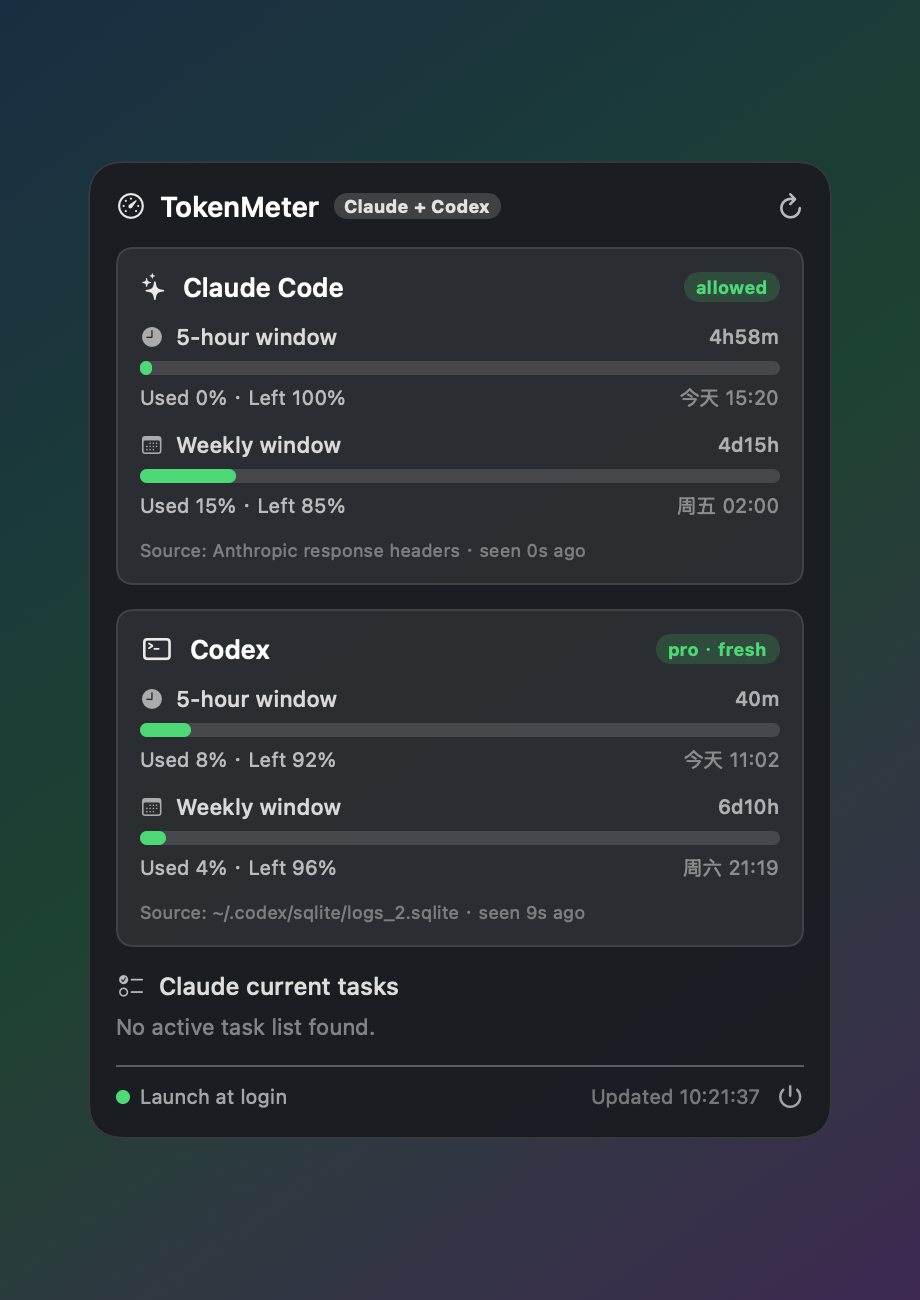
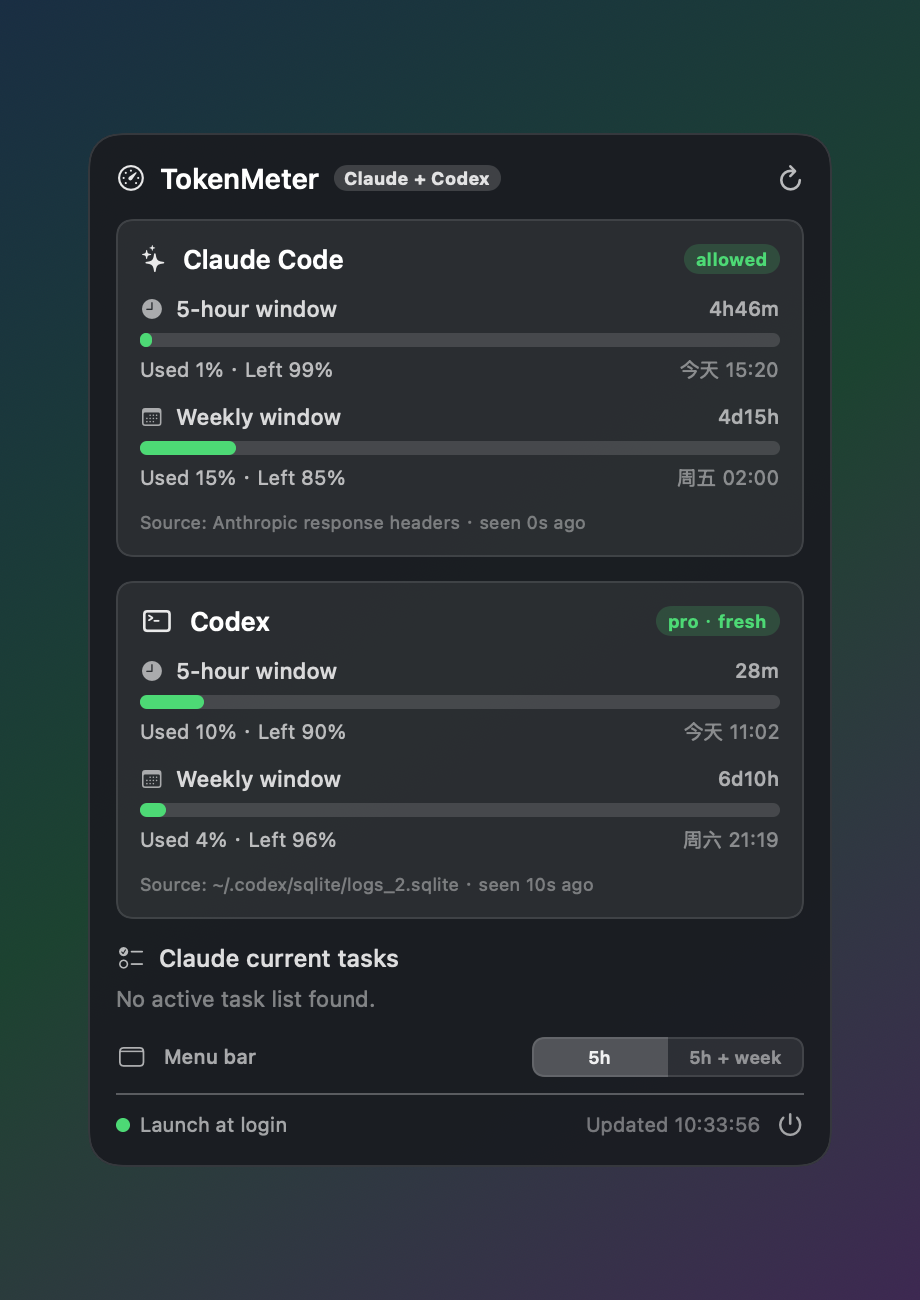
Add configurable menu bar quota display

Changed region(s): [[0.0913, 0.4615, 0.913, 0.9231], [0.0913, 0.0923, 0.913, 0.4308]]

diff --git a/main.swift b/main.swift
@@ -92,8 +92,37 @@ struct ProviderUsage: Identifiable {
         windows.first(where: { $0.id == "5h" })?.used ?? worstUsed
     }
 
+    var primaryLeft: Double? {
+        primaryUsed.map { max(0, 1 - $0) }
+    }
+
     var hasUsableData: Bool {
         windows.contains { $0.used != nil || $0.reset != nil }
+    }
+}
+
+enum MenuBarDisplayMode: String, CaseIterable, Identifiable {
+    case fiveHour
+    case fiveHourAndWeekly
+
+    static let defaultsKey = "menuBarDisplayMode"
+
+    var id: String { rawValue }
+
+    var label: String {
+        switch self {
+        case .fiveHour: return "5h"
+        case .fiveHourAndWeekly: return "5h + week"
+        }
+    }
+
+    static func load() -> MenuBarDisplayMode {
+        let raw = UserDefaults.standard.string(forKey: defaultsKey) ?? ""
+        return MenuBarDisplayMode(rawValue: raw) ?? .fiveHour
+    }
+
+    func save() {
+        UserDefaults.standard.set(rawValue, forKey: Self.defaultsKey)
     }
 }
 
@@ -111,6 +140,9 @@ final class UsageState: ObservableObject {
     @Published var loading = false
     @Published var tick = 0
     @Published var codexActionMessage: String?
+    @Published var menuBarMode: MenuBarDisplayMode = MenuBarDisplayMode.load() {
+        didSet { menuBarMode.save() }
+    }
 }
 
 struct FetchResult {
@@ -732,11 +764,38 @@ struct ProviderCard: View {
     }
 }
 
+struct MenuBarModeControl: View {
+    @Binding var selection: MenuBarDisplayMode
+    var onChange: () -> Void
+
+    var body: some View {
+        HStack(spacing: 0) {
+            ForEach(MenuBarDisplayMode.allCases) { mode in
+                Button {
+                    selection = mode
+                    onChange()
+                } label: {
+                    Text(mode.label)
+                        .font(.system(size: 9, weight: .semibold))
+                        .frame(width: 68, height: 20)
+                        .foregroundColor(selection == mode ? .white.opacity(0.92) : .white.opacity(0.48))
+                        .background(selection == mode ? Color.white.opacity(0.18) : Color.clear)
+                }
+                .buttonStyle(.plain)
+            }
+        }
+        .background(Color.white.opacity(0.08))
+        .clipShape(RoundedRectangle(cornerRadius: 6))
+        .overlay(RoundedRectangle(cornerRadius: 6).strokeBorder(Color.white.opacity(0.10)))
+    }
+}
+
 struct PanelView: View {
     @ObservedObject var state: UsageState
     var onRefresh: () -> Void
     var onQuit: () -> Void
     var onOpenCodex: () -> Void
+    var onMenuBarModeChange: () -> Void
     var preview: Bool = false
 
     @State private var launchAtLogin = (SMAppService.mainApp.status == .enabled)
@@ -841,6 +900,18 @@ struct PanelView: View {
 
     private var footer: some View {
         VStack(spacing: 8) {
+            HStack(spacing: 8) {
+                Image(systemName: "menubar.rectangle")
+                    .font(.system(size: 11))
+                    .foregroundColor(.white.opacity(0.65))
+                Text("Menu bar")
+                    .font(.system(size: 10, weight: .medium))
+                    .foregroundColor(.white.opacity(0.62))
+                Spacer()
+                MenuBarModeControl(selection: $state.menuBarMode) {
+                    onMenuBarModeChange()
+                }
+            }
             Divider().overlay(Color.white.opacity(0.12))
             HStack {
                 Button {
@@ -934,7 +1005,11 @@ final class AppDelegate: NSObject, NSApplicationDelegate {
             state: state,
             onRefresh: { [weak self] in self?.refresh() },
             onQuit: { NSApp.terminate(nil) },
-            onOpenCodex: { [weak self] in self?.openCodex() }
+            onOpenCodex: { [weak self] in self?.openCodex() },
+            onMenuBarModeChange: { [weak self] in
+                self?.updateStatusTitle()
+                if self?.panel.isVisible == true { self?.refitPanel() }
+            }
         )
         let hosting = NSHostingView(rootView: root)
         hosting.autoresizingMask = [.width, .height]
@@ -1023,38 +1098,115 @@ final class AppDelegate: NSObject, NSApplicationDelegate {
     }
 
     private func updateStatusTitle() {
-        guard let button = statusItem.button else { return }
+        guard statusItem.button != nil else { return }
         if state.providers.isEmpty {
-            button.title = "⏳ TokenMeter"
+            setStatusTitle("TokenMeter", color: .secondaryLabelColor, tooltip: nil)
             return
         }
-        let dot = statusDot()
         let parts = state.providers.map { provider in
-            let marker: String
-            let value: Double?
-            switch provider.freshness {
-            case .live:
-                marker = ""
-                value = provider.primaryUsed
-            case .stale:
-                marker = "~"
-                value = provider.primaryUsed
-            case .missingToken, .unavailable, .error:
-                marker = "!"
-                value = nil
-            }
-            return "\(marker)\(provider.shortName) \(fmtPct(value))"
+            menuBarProviderText(provider)
         }
-        button.title = "\(dot) " + parts.joined(separator: " · ")
+        let severity = menuBarSeverity()
+        let title = "\(severity.symbol) " + parts.joined(separator: " · ")
+        setStatusTitle(title, color: severity.color, tooltip: menuBarTooltip())
     }
 
-    private func statusDot() -> String {
-        if state.providers.contains(where: { $0.limitReached == true || $0.freshness == .error }) { return "🔴" }
-        if state.providers.contains(where: { [.stale, .missingToken, .unavailable].contains($0.freshness) }) { return "🟡" }
-        let worst = state.providers.compactMap(\.worstUsed).max() ?? 0
-        if worst >= 0.8 { return "🟡" }
-        if state.providers.contains(where: { $0.hasUsableData }) { return "🟢" }
-        return "⚙︎"
+    private func setStatusTitle(_ title: String, color: NSColor, tooltip: String?) {
+        guard let button = statusItem.button else { return }
+        let font = NSFont.monospacedDigitSystemFont(ofSize: NSFont.systemFontSize, weight: .semibold)
+        button.attributedTitle = NSAttributedString(
+            string: title,
+            attributes: [.foregroundColor: color, .font: font]
+        )
+        button.toolTip = tooltip
+    }
+
+    private func menuBarProviderText(_ provider: ProviderUsage) -> String {
+        let prefix: String
+        switch provider.freshness {
+        case .live:
+            prefix = ""
+        case .stale:
+            prefix = "~"
+        case .missingToken, .unavailable, .error:
+            prefix = "!"
+        }
+
+        switch state.menuBarMode {
+        case .fiveHour:
+            return "\(prefix)\(provider.shortName) \(fmtPct(left(for: provider, windowID: "5h")))"
+        case .fiveHourAndWeekly:
+            let fiveHour = fmtPct(left(for: provider, windowID: "5h"))
+            let weekly = fmtPct(left(for: provider, windowID: "weekly"))
+            return "\(prefix)\(provider.shortName) \(fiveHour)/\(weekly)"
+        }
+    }
+
+    private func left(for provider: ProviderUsage, windowID: String) -> Double? {
+        guard let used = provider.windows.first(where: { $0.id == windowID })?.used else { return nil }
+        return max(0, 1 - used)
+    }
+
+    private func displayedRemainingValues() -> [Double] {
+        state.providers.flatMap { provider -> [Double] in
+            switch state.menuBarMode {
+            case .fiveHour:
+                return [left(for: provider, windowID: "5h")].compactMap { $0 }
+            case .fiveHourAndWeekly:
+                return [
+                    left(for: provider, windowID: "5h"),
+                    left(for: provider, windowID: "weekly")
+                ].compactMap { $0 }
+            }
+        }
+    }
+
+    private enum MenuBarSeverity {
+        case healthy
+        case warning
+        case critical
+        case unknown
+
+        var symbol: String {
+            switch self {
+            case .healthy: return "●"
+            case .warning: return "●"
+            case .critical: return "●"
+            case .unknown: return "●"
+            }
+        }
+
+        var color: NSColor {
+            switch self {
+            case .healthy: return .systemGreen
+            case .warning: return .systemOrange
+            case .critical: return .systemRed
+            case .unknown: return .systemYellow
+            }
+        }
+    }
+
+    private func menuBarSeverity() -> MenuBarSeverity {
+        if state.providers.contains(where: { $0.limitReached == true || $0.freshness == .error }) {
+            return .critical
+        }
+        let values = displayedRemainingValues()
+        guard let minimum = values.min() else { return .unknown }
+        if minimum <= 0.10 { return .critical }
+        if minimum <= 0.20 { return .warning }
+        if state.providers.contains(where: { [.stale, .missingToken, .unavailable].contains($0.freshness) }) {
+            return .warning
+        }
+        return .healthy
+    }
+
+    private func menuBarTooltip() -> String {
+        switch state.menuBarMode {
+        case .fiveHour:
+            return "TokenMeter shows remaining 5-hour quota. Orange <=20%, red <=10%."
+        case .fiveHourAndWeekly:
+            return "TokenMeter shows remaining 5-hour/weekly quota. Orange <=20%, red <=10%."
+        }
     }
 
     private func openCodex() {
@@ -1116,7 +1268,14 @@ enum RenderMode {
                 Color(red: 0.11, green: 0.26, blue: 0.19),
                 Color(red: 0.24, green: 0.16, blue: 0.32)
             ], startPoint: .topLeading, endPoint: .bottomTrailing)
-            PanelView(state: state, onRefresh: {}, onQuit: {}, onOpenCodex: {}, preview: true)
+            PanelView(
+                state: state,
+                onRefresh: {},
+                onQuit: {},
+                onOpenCodex: {},
+                onMenuBarModeChange: {},
+                preview: true
+            )
                 .padding(36)
         }
         .frame(width: 460, height: 650)

diff --git a/docs/TECHNICAL.md b/docs/TECHNICAL.md
@@ -15,7 +15,11 @@ TokenMeter is a single-file native macOS app (`main.swift`) built with AppKit + 
 
 ```text
 NSStatusItem
-  -> compact menu title: Cl 9% · ~Cx 59%
+  -> configurable remaining-quota title:
+       5-hour only: Cl 94% · Cx 92%
+       5-hour + weekly: Cl 94%/85% · Cx 92%/96%
+  -> title color is based on the lowest displayed remaining window:
+       green >20%, orange <=20%, red <=10%
   -> click opens FloatingPanel
 
 AppDelegate
@@ -165,7 +169,7 @@ This keeps TokenMeter honest:
 `build.sh` produces `TokenMeter.app`:
 
 - Bundle ID: `com.tokenmeter.TokenMeter`
-- Version: `2.0.2`
+- Version: `2.0.3`
 - App icon: generated from `assets/app-icon.png`
 - Menu-bar agent: `LSUIElement=true`
 - Minimum macOS: 14.0
@@ -197,7 +201,11 @@ TokenMeter 是一个单文件原生 macOS App（`main.swift`），使用 AppKit 
 
 ```text
 NSStatusItem
-  -> 菜单栏紧凑标题：Cl 9% · ~Cx 59%
+  -> 可配置的菜单栏剩余额度标题：
+       只显示 5 小时：Cl 94% · Cx 92%
+       显示 5 小时 + 周窗口：Cl 94%/85% · Cx 92%/96%
+  -> 标题颜色由当前显示窗口中最低剩余额度决定：
+       绿色 >20%，橙色 <=20%，红色 <=10%
   -> 点击打开 FloatingPanel
 
 AppDelegate
@@ -347,7 +355,7 @@ OpenAI 公开 Codex 文档说明了计划用量窗口和 rate-limit 概念，但
 `build.sh` 会生成 `TokenMeter.app`：
 
 - Bundle ID：`com.tokenmeter.TokenMeter`
-- 版本：`2.0.2`
+- 版本：`2.0.3`
 - App 图标：由 `assets/app-icon.png` 生成
 - 菜单栏代理：`LSUIElement=true`
 - 最低 macOS：14.0